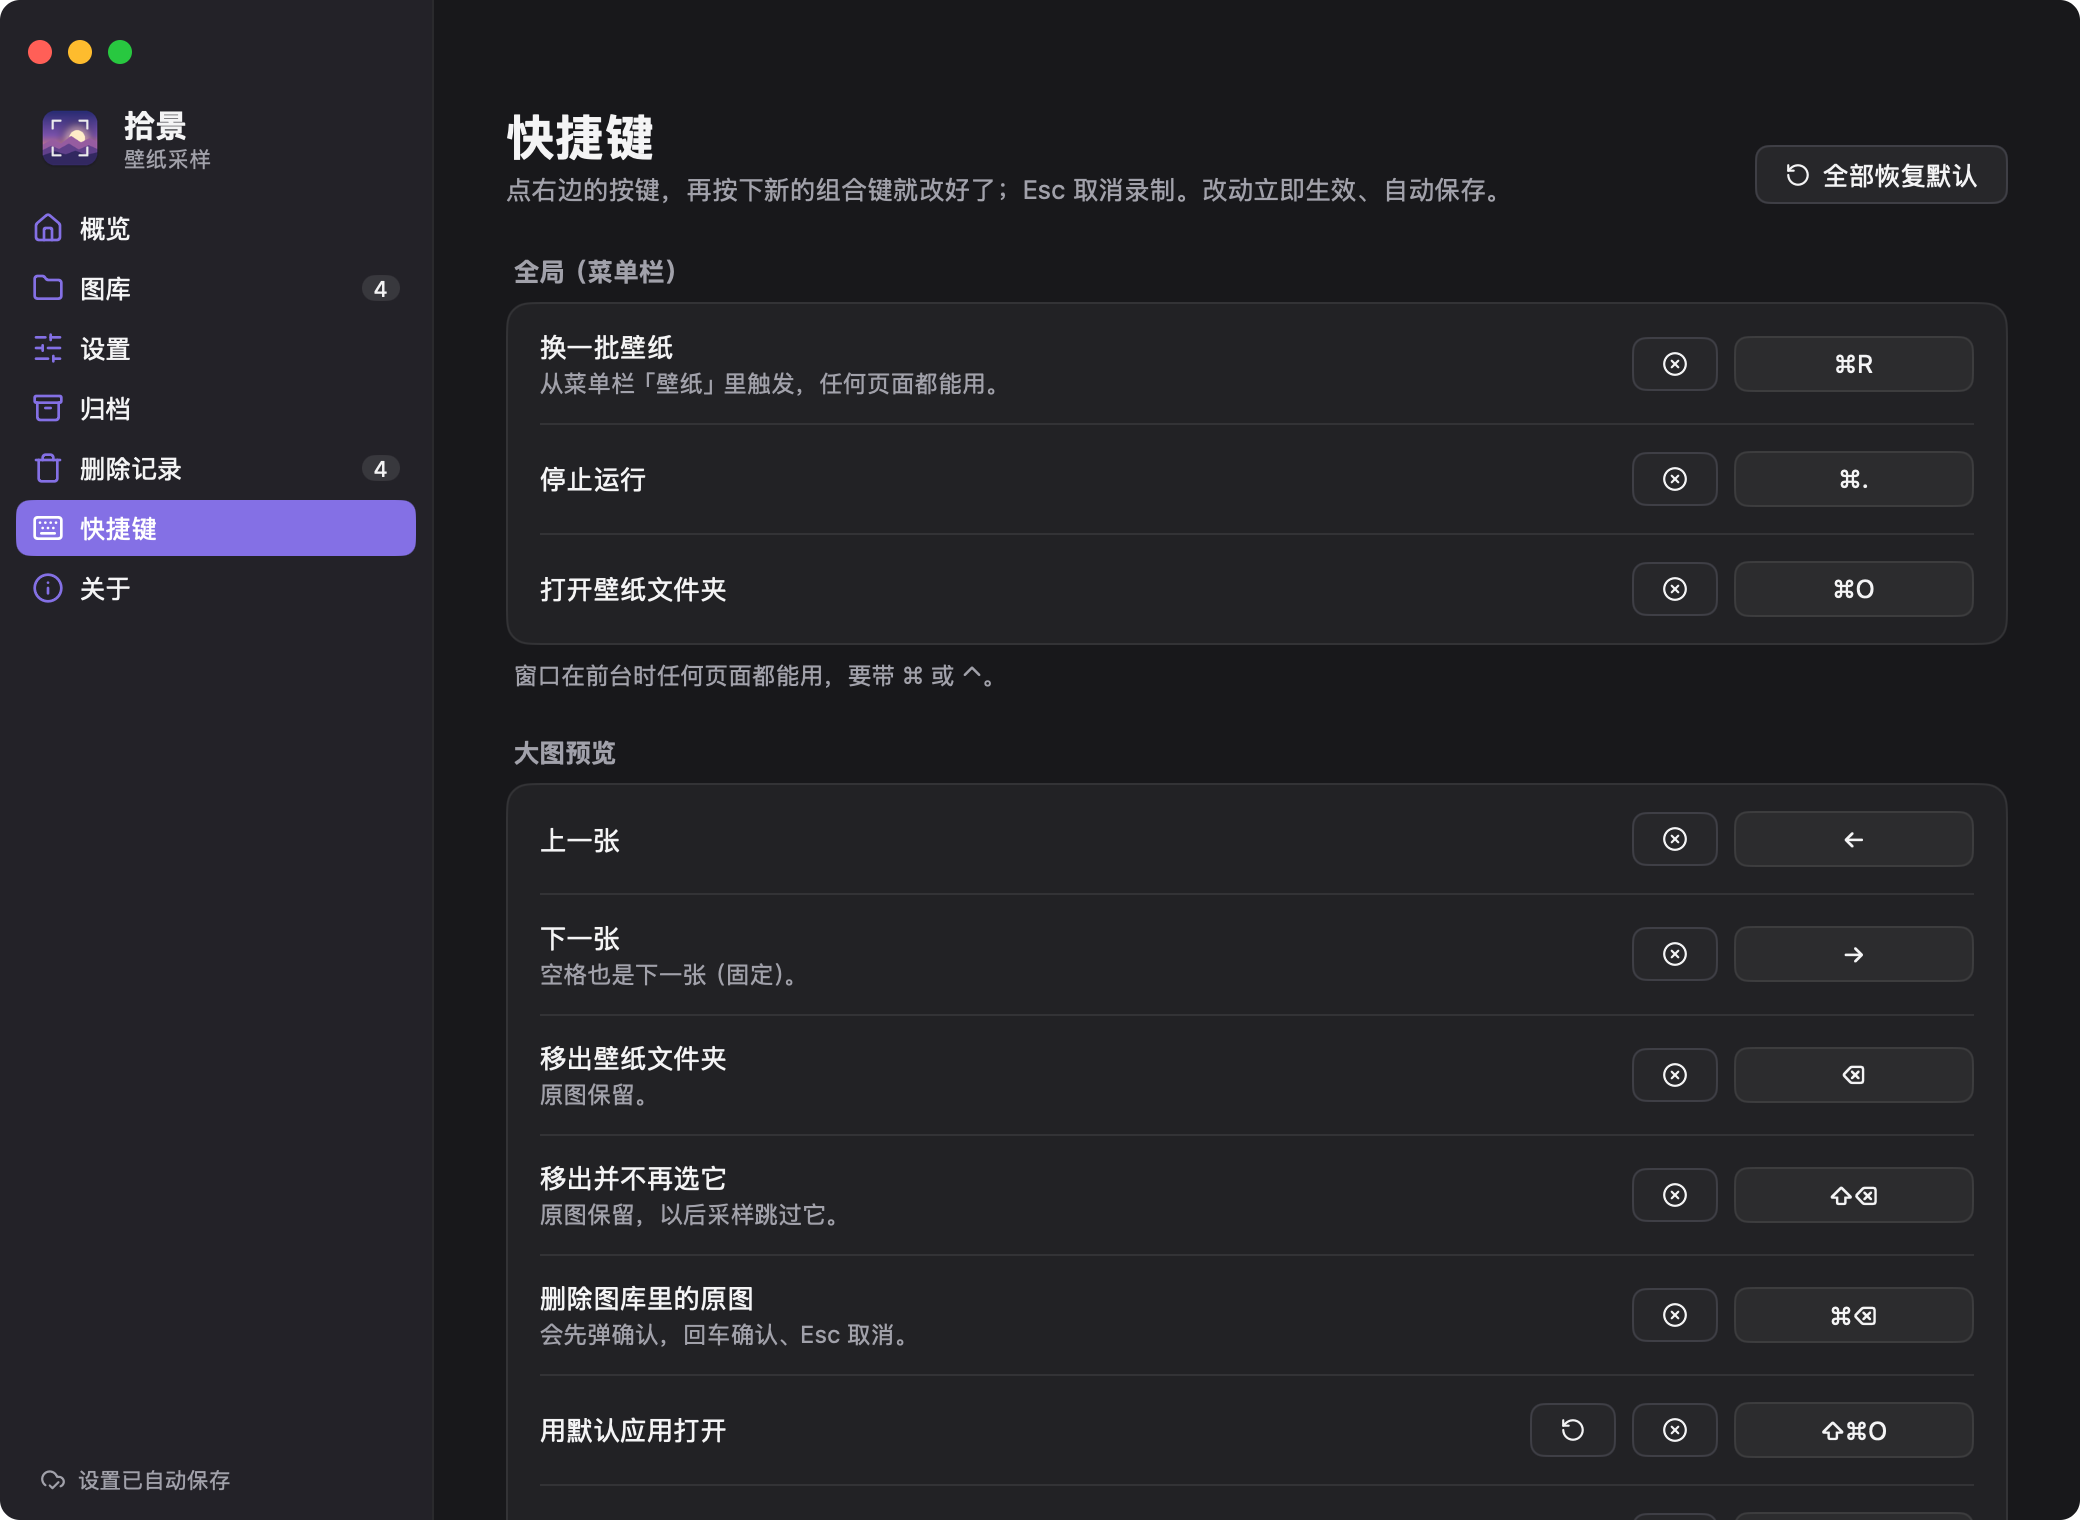
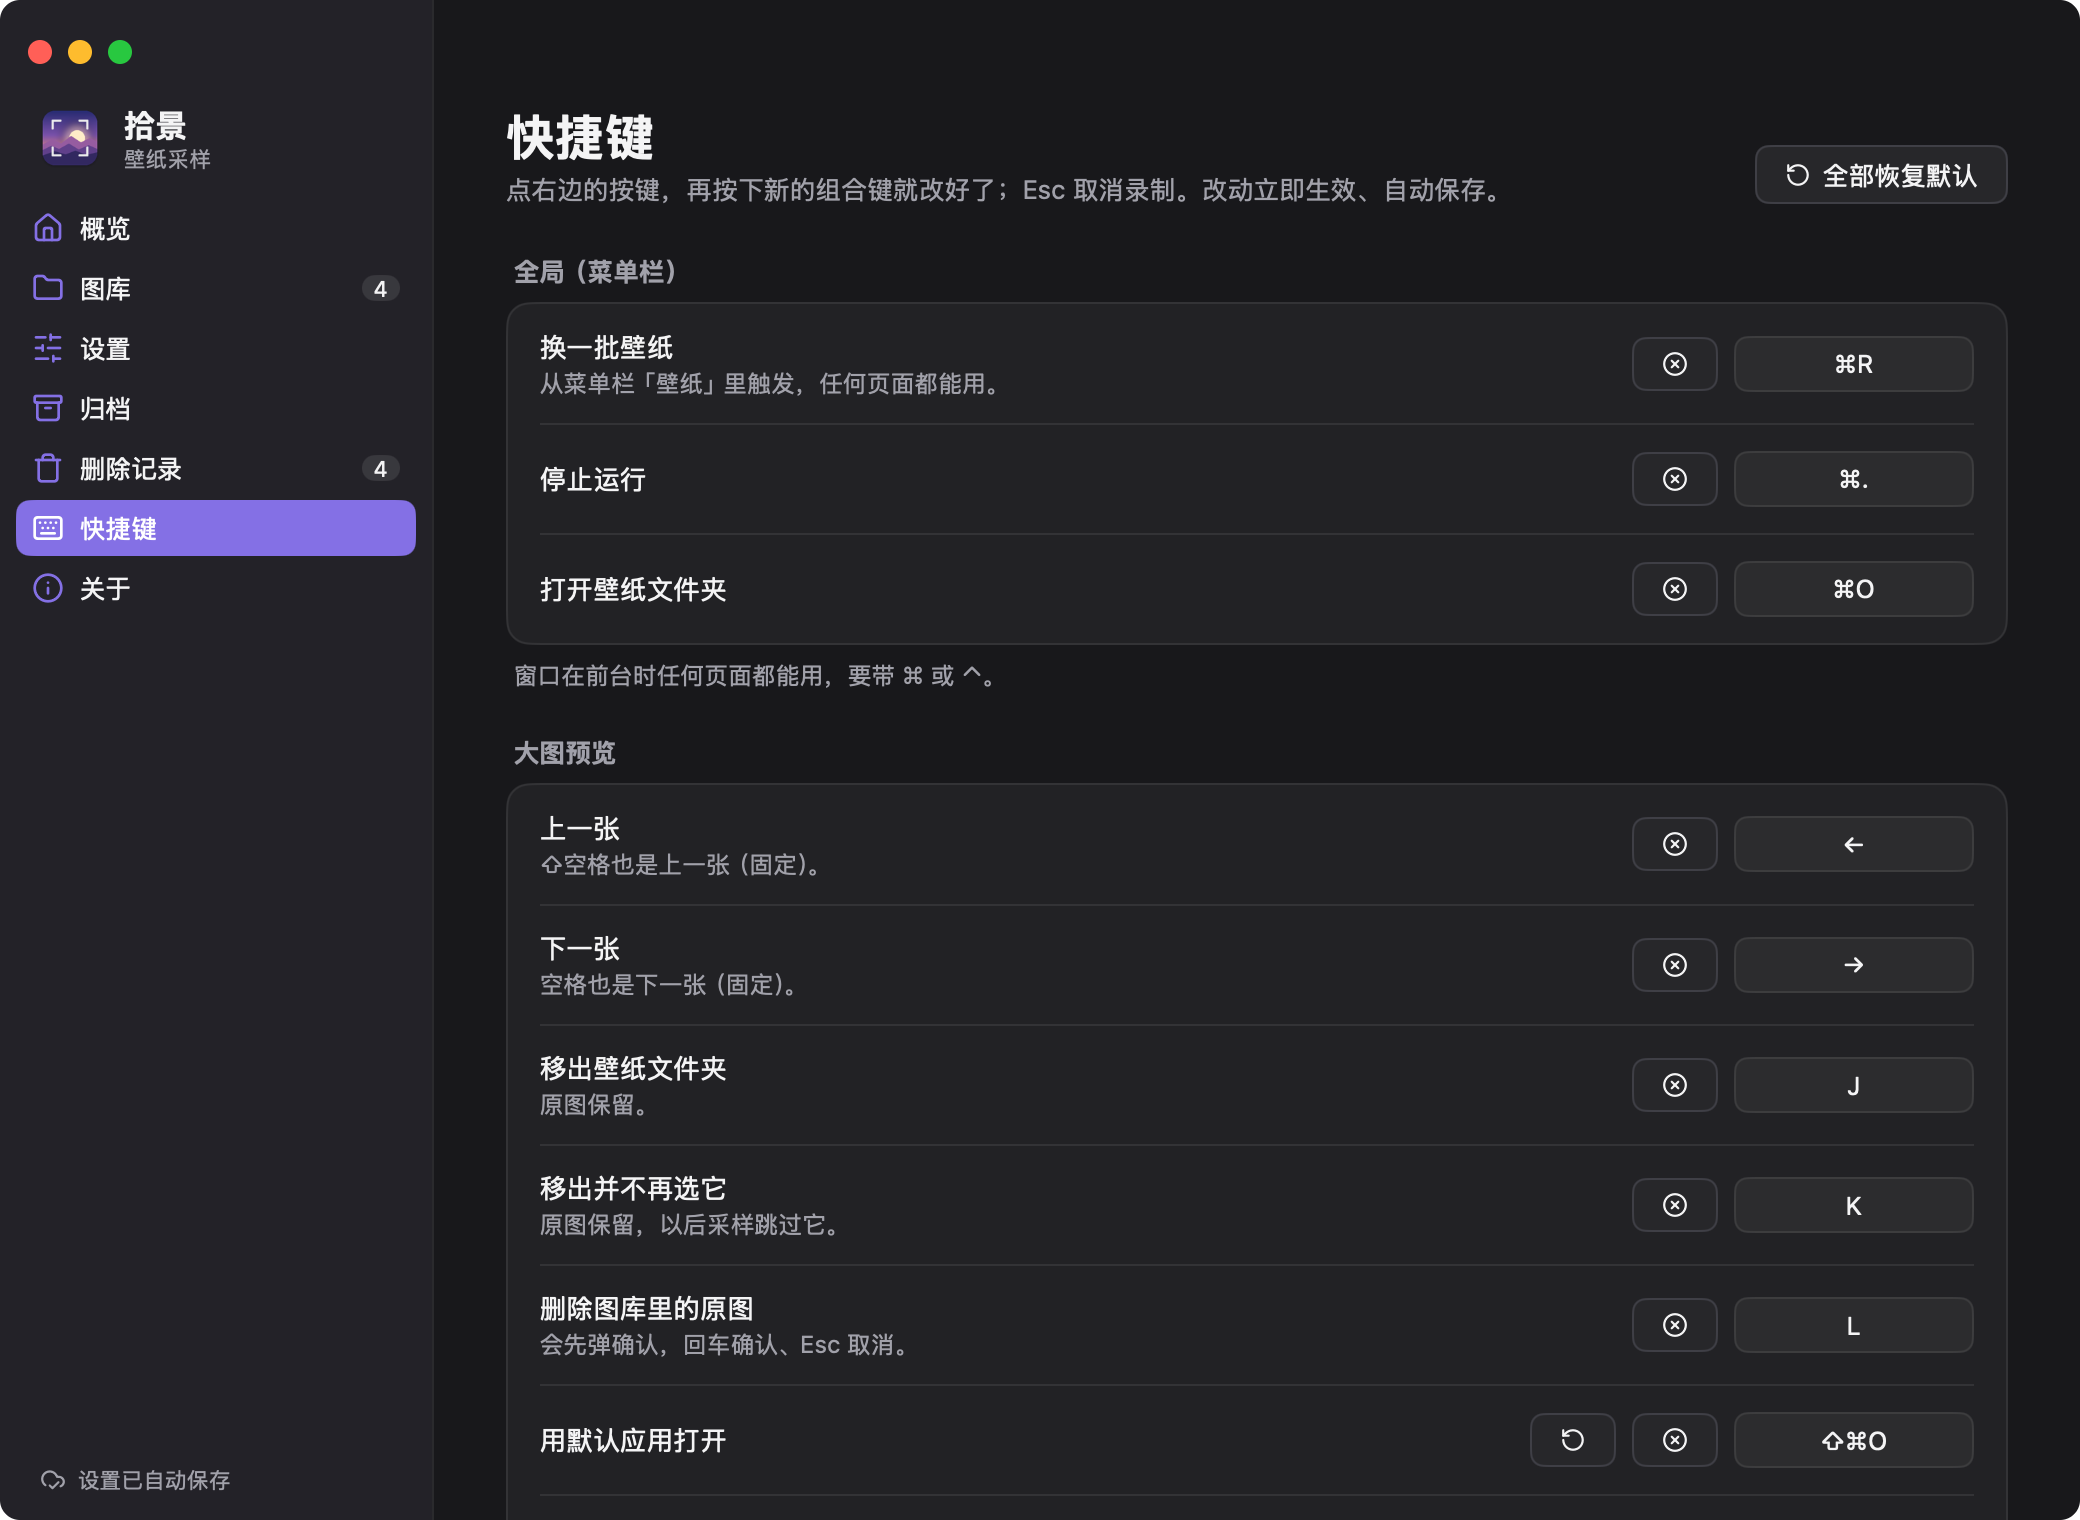
feat(拾景): 预览默认快捷键改成手不离主键区：空格 / ⇧空格翻页，J 移出、K 不再选、L 删除原图（← → 保留），版本 v0.3.5

diff --git a/desktop/main_test.go b/desktop/main_test.go
@@ -435,7 +435,11 @@ func TestPreviewKeyboard(t *testing.T) {
 	if f.previewIdx != 2 {
 		t.Fatalf("空格应切到下一张: idx=%d", f.previewIdx)
 	}
-	tt.Key(0, ui.KeyLeft)
+	tt.Key(ui.Shift, ui.KeySpace)
+	tt.Frame()
+	if f.previewIdx != 1 {
+		t.Fatalf("⇧空格应切到上一张: idx=%d", f.previewIdx)
+	}
 	tt.Key(0, ui.KeyLeft)
 	tt.Key(0, ui.KeyLeft)
 	tt.Frame()
@@ -450,25 +454,25 @@ func TestPreviewKeyboard(t *testing.T) {
 	if opened != filepath.Dir(srcs["s-d.jpg"]) {
 		t.Errorf("F 应在 Finder 中显示原图: %q", opened)
 	}
-	tt.Key(0, ui.KeyBackspace)
+	tt.Key(0, ui.KeyJ)
 	tt.Frame()
 	if _, err := os.Stat(walls[3]); !os.IsNotExist(err) || len(f.walls.all) != 3 || !f.preview {
-		t.Fatalf("⌫ 应移出当前这张、预览留着看下一张: all=%q", f.walls.all)
+		t.Fatalf("J 应移出当前这张、预览留着看下一张: all=%q", f.walls.all)
 	}
 	if _, err := os.Stat(srcs["s-d.jpg"]); err != nil {
-		t.Error("⌫ 不应动原图")
+		t.Error("J 不应动原图")
 	}
 	cur := f.walls.all[f.previewIdx]
-	tt.Key(ui.Shift, ui.KeyBackspace)
+	tt.Key(0, ui.KeyK)
 	tt.Frame()
 	if len(f.walls.all) != 2 || !slices.Contains(f.cfg.Excluded, srcs[filepath.Base(cur)]) {
-		t.Fatalf("⇧⌫ 应移出并加进不再选: excluded=%q", f.cfg.Excluded)
+		t.Fatalf("K 应移出并加进不再选: excluded=%q", f.cfg.Excluded)
 	}
 	cur = f.walls.all[f.previewIdx]
-	tt.Key(ui.Cmd, ui.KeyBackspace)
+	tt.Key(0, ui.KeyL)
 	tt.Frame()
 	if !f.confirmDelSrc {
-		t.Fatal("⌘⌫ 应先弹删除确认")
+		t.Fatal("L 应先弹删除确认")
 	}
 	tt.Key(0, ui.KeyRight) // 确认框开着时预览不应翻页
 	tt.Frame()
@@ -480,7 +484,7 @@ func TestPreviewKeyboard(t *testing.T) {
 	if _, err := os.Stat(srcs[filepath.Base(cur)]); !os.IsNotExist(err) {
 		t.Error("回车确认后应删除原图")
 	}
-	if !tt.HasText("⌘⌫") && len(f.walls.all) > 0 {
+	if !tt.HasText("L") && len(f.walls.all) > 0 {
 		t.Errorf("按钮上应标出快捷键: %q", tt.Texts())
 	}
 }

diff --git a/desktop/preview.go b/desktop/preview.go
@@ -13,9 +13,10 @@ import (
 // Modal 外面的 Shortcut 被弹层挡住收不到；删除确认框弹出时预览在它后面，这里同样收不到，回车 / Esc 归确认框。
 // 回车不能当快捷键：弹层会把焦点放在按钮上，回车归那个按钮。
 func (a *app) previewKeys(c *ui.Context, wall string, hasSrc bool, step func(int)) {
+	// 默认是空格 / ⇧空格翻页、J K L 整理（按轻重从左到右），手不用离开主键区。
 	// 移出、删除这类操作不吃按住不放的自动重复（once），免得一下子移出一串
 	switch {
-	case a.pressed(c, "prev", false):
+	case a.pressed(c, "prev", false), c.Shortcut(ui.Shift, ui.KeySpace):
 		step(-1)
 	case a.pressed(c, "next", false), c.Shortcut(0, ui.KeySpace):
 		step(1)
@@ -202,7 +203,7 @@ func (a *app) previewModal(c *ui.Context) {
 					ui.Text(c, sub).FontSize(11.5).TextColor(t.TextMuted).SingleLine().Tooltip(src)
 				})
 				ui.Text(c, fmt.Sprintf("%d / %d", a.previewIdx+1, len(w.all))).FontSize(12).TextColor(t.TextMuted)
-				iconOnly(c, iconChevronLeft, "上一张", withKey("上一张", a.keyLabel("prev"))).OnClick(func() { step(-1) })
+				iconOnly(c, iconChevronLeft, "上一张", withKey("上一张", a.keyLabel("prev"))+"，⇧空格也行").OnClick(func() { step(-1) })
 				iconOnly(c, iconChevronRight, "下一张", withKey("下一张", a.keyLabel("next"))+"，空格也行").OnClick(func() { step(1) })
 			})
 
@@ -244,9 +245,9 @@ func (a *app) previewKeyHint() string {
 	nav := strings.TrimSpace(a.keyLabel("prev") + " " + a.keyLabel("next"))
 	hint := "按钮上标着快捷键（可以在「快捷键」页修改）；"
 	if nav != "" {
-		hint += nav + " 或空格切换图片，"
+		hint += nav + " 或 空格 / ⇧空格 切换图片，"
 	} else {
-		hint += "空格切换图片，"
+		hint += "空格 / ⇧空格 切换图片，"
 	}
 	if d := a.keyLabel("delete"); d != "" {
 		hint += d + " 后按回车确认删除，"

diff --git a/desktop/shortcuts.go b/desktop/shortcuts.go
@@ -19,11 +19,11 @@ var keyActions = []keyAction{
 	{"run", "换一批壁纸", "从菜单栏「壁纸」里触发，任何页面都能用。", true, "Cmd+R"},
 	{"stop", "停止运行", "", true, "Cmd+."},
 	{"open_dest", "打开壁纸文件夹", "", true, "Cmd+O"},
-	{"prev", "上一张", "", false, "Left"},
+	{"prev", "上一张", "⇧空格也是上一张（固定）。", false, "Left"},
 	{"next", "下一张", "空格也是下一张（固定）。", false, "Right"},
-	{"remove", actRemove, "原图保留。", false, "Backspace"},
-	{"exclude", actExclude, "原图保留，以后采样跳过它。", false, "Shift+Backspace"},
-	{"delete", "删除图库里的原图", "会先弹确认，回车确认、Esc 取消。", false, "Cmd+Backspace"},
+	{"remove", actRemove, "原图保留。", false, "J"},
+	{"exclude", actExclude, "原图保留，以后采样跳过它。", false, "K"},
+	{"delete", "删除图库里的原图", "会先弹确认，回车确认、Esc 取消。", false, "L"},
 	{"open", "用默认应用打开", "", false, "O"},
 	{"reveal", "在 Finder 中显示原图", "", false, "F"},
 }
@@ -161,6 +161,7 @@ func (k keyCombo) Label() string {
 var fixedKeys = []struct{ combo, label string }{
 	{"Escape", "关闭预览 / 取消"},
 	{"Space", "下一张"},
+	{"Shift+Space", "上一张"},
 	{"Enter", "确认"},
 	{"Tab", "切换焦点"},
 	{"Cmd+1", "概览"}, {"Cmd+2", "图库"}, {"Cmd+3", "设置"}, {"Cmd+4", "归档"}, {"Cmd+5", "删除记录"}, {"Cmd+6", "快捷键"},

diff --git a/desktop/keysview.go b/desktop/keysview.go
@@ -46,7 +46,7 @@ func (a *app) keysPage(c *ui.Context) {
 			ui.Column(c).Gap(8).Padding(13, 16).Children(func() {
 				for _, f := range [][2]string{
 					{"⌘1 – ⌘6", "切换页面"}, {"⌘,", "设置"}, {"⌘W", "关闭窗口（后台继续运行）"}, {"⌘Q", "退出"},
-					{"空格", "预览里下一张"}, {"↩", "确认（比如确认删除原图）"}, {"Esc", "关闭预览 / 取消"},
+					{"空格", "预览里下一张"}, {"⇧空格", "预览里上一张"}, {"↩", "确认（比如确认删除原图）"}, {"Esc", "关闭预览 / 取消"},
 				} {
 					ui.Row(c).Gap(12).AlignItems(ui.Center).Children(func() {
 						ui.Text(c, f[1]).FontSize(13).Grow(1)

diff --git a/desktop/keys_test.go b/desktop/keys_test.go
@@ -131,7 +131,7 @@ func TestPreviewUsesCustomShortcut(t *testing.T) {
 	}
 	found := false
 	for _, s := range tt.Texts() {
-		found = found || strings.Contains(s, "← N 或空格切换图片")
+		found = found || strings.Contains(s, "← N 或 空格 / ⇧空格 切换图片")
 	}
 	if !found {
 		t.Errorf("预览说明应显示新的快捷键: %q", tt.Texts())

diff --git a/CLAUDE.md b/CLAUDE.md
@@ -69,7 +69,7 @@ NAS/网络卷上同步来的文件经常带有 `SF_ARCHIVED`（superuser-only）
 - v0.3.0 加的几样，改相关代码时注意：
   - **优先选没换上过的**（`prefer_unseen`）：`selection_history.json` 是这一轮轮换里换上过的原图路径集合；没换上过的不够一批时全部选上、差的从换上过的里补，并把历史重置成只有这一批（`NewCycle`）。只在复制完整跑完后写。`CopyResult.Rotated` / `Candidates` 是轮换进度。
   - **删除日志**每行 4 列（时间、阈值、路径、原因），旧日志只有 3 列，`core.ReadDeleteLog` 两种都认；不合格原因来自 `core.ImageVerdict`。筛选时每张不合格的图只打一行日志：真删「🔥 已删除: 名  (原因)」/「❌ 删除失败」，模拟「🗑 待删除: 名  (原因)」——界面 `parseLogLine` 按两个空格加括号拆出原因，`countDeletion` 数这些行。
-  - **大图预览**按 `walls.all`（壁纸文件夹里全部图片，打乱后的顺序）翻，不只是缩略图那几张；没缩略图的先显示「正在载入…」，后台 `loadPreview` 解码。图片框用 `fitBox` 按图片比例算尺寸（不留黑边），整个弹层不超过主窗口。快捷键可以自定义（侧边栏「快捷键」页，`keysview.go`）：可改的操作和默认值在 `shortcuts.go` 的 `keyActions`，配置 `Shortcuts` 只存改过的；`fixedKeys` 是不许占用的。菜单栏三项由 `a.setMenuKeys` 同步（录制时先撤掉，免得按 ⌘R 真的开始运行）。预览按键在 `previewKeys`，必须在 `Modal` 回调里调 `c.Shortcut`，外面收不到；回车被弹层里有焦点的按钮占着，不能当快捷键，所以预览打开时焦点放在图片上。新加可快捷操作时加进 `keyActions`，`TestDefaultShortcutsDoNotClash` 会检查默认值不冲突。三种操作的文案集中在 `preview.go` 的 `act*` 常量：「移出」只删壁纸文件夹里那份，「删除图库里的原图」才动原图——改文案时保持这个区分。
+  - **大图预览**按 `walls.all`（壁纸文件夹里全部图片，打乱后的顺序）翻，不只是缩略图那几张；没缩略图的先显示「正在载入…」，后台 `loadPreview` 解码。图片框用 `fitBox` 按图片比例算尺寸（不留黑边），整个弹层不超过主窗口。快捷键可以自定义（侧边栏「快捷键」页，`keysview.go`）：可改的操作和默认值在 `shortcuts.go` 的 `keyActions`，配置 `Shortcuts` 只存改过的；`fixedKeys` 是不许占用的。菜单栏三项由 `a.setMenuKeys` 同步（录制时先撤掉，免得按 ⌘R 真的开始运行）。预览按键在 `previewKeys`，必须在 `Modal` 回调里调 `c.Shortcut`，外面收不到；回车被弹层里有焦点的按钮占着，不能当快捷键，所以预览打开时焦点放在图片上。预览默认是空格 / ⇧空格翻页（固定键，← → 是可改的那一套）、J K L 按轻重排移出 / 不再选 / 删除原图（用户定的，手不离主键区）。新加可快捷操作时加进 `keyActions`，`TestDefaultShortcutsDoNotClash` 会检查默认值不冲突。三种操作的文案集中在 `preview.go` 的 `act*` 常量：「移出」只删壁纸文件夹里那份，「删除图库里的原图」才动原图——改文案时保持这个区分。
   - **缩略图 → 原图**：`last_selection.json` 里 `dests` 和 `sources` 一一对应，`core.WallpaperSources` 读成「壁纸文件名 → 原图」；旧版本换上的没有 `dests`，缩略图菜单里就不出现「不再选它 / 删除原图」。
   - **定时自动换**（`auto_run_hours`）：`main.go` 里每分钟 `maybeAutoRun`，从上次运行（没运行过从应用启动）开始计时；`startRunWith(true)` 会强制 `DeleteDuringFilter=false`，自动运行永远不删原图。
   - 图库统计、空间预估用 `a.lastGood`（最近一次成功运行，存在 `ui_state.json` 的 `last_success`），因为运行中 / 失败后 `a.last` 不是成功的结果。

diff --git a/README.md b/README.md
@@ -23,7 +23,7 @@
    - **筛选 + 采样**：先删掉竖屏、正方形、分辨率不够的原图，再参与采样
    - **仅采样**：不删任何文件，采样时跳过不合格的图片，适合收藏夹这类不想动的目录
 2. **设置**：选壁纸文件夹、每次张数、最低分辨率（4K / 5K / 2K / 1080p / 自定义）。改动自动保存。
-3. **概览**：点「换一批壁纸」（⌘R）。依次 筛选 → 采样 → 复制 → 刷新系统壁纸，系统的文件夹轮换会立刻用上新的一批。缩略图按窗口大小铺满；点一张看大图，←→ 可以翻看这一批的全部壁纸；预览里和右键菜单都可以「移出壁纸文件夹」「移出并不再选它」（这两个都不动原图），或「删除图库里的原图」（不可撤销）。预览可以全程用键盘：←→（或空格）切换，⌫ 移出，⇧⌫ 移出并不再选，⌘⌫ 删除原图（回车确认），O 用默认应用打开，F 在 Finder 中显示原图，Esc 关闭；按钮上都标着快捷键（可以在「快捷键」页改）。
+3. **概览**：点「换一批壁纸」（⌘R）。依次 筛选 → 采样 → 复制 → 刷新系统壁纸，系统的文件夹轮换会立刻用上新的一批。缩略图按窗口大小铺满；点一张看大图，←→ 可以翻看这一批的全部壁纸；预览里和右键菜单都可以「移出壁纸文件夹」「移出并不再选它」（这两个都不动原图），或「删除图库里的原图」（不可撤销）。预览可以全程用键盘，手不用离开主键区：空格 / ⇧空格（或 ←→）切换，J 移出，K 移出并不再选，L 删除原图（回车确认），O 用默认应用打开，F 在 Finder 中显示原图，Esc 关闭；按钮上都标着快捷键（可以在「快捷键」页改）。
 
 <table>
   <tr>
